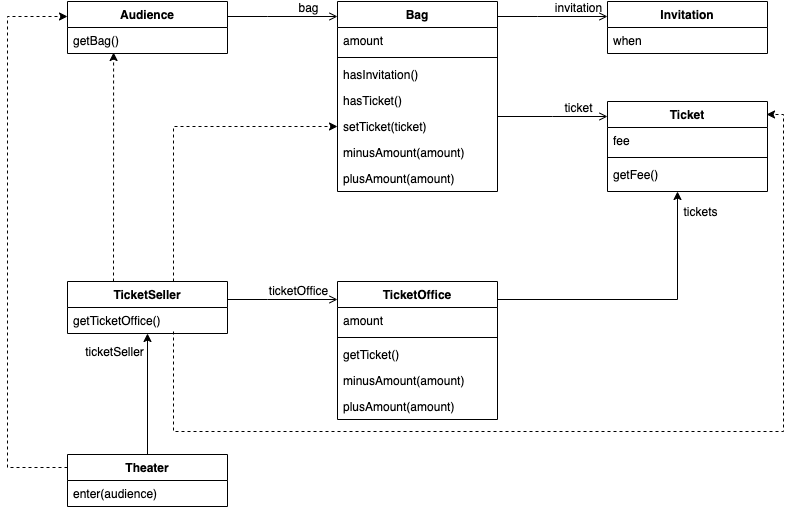
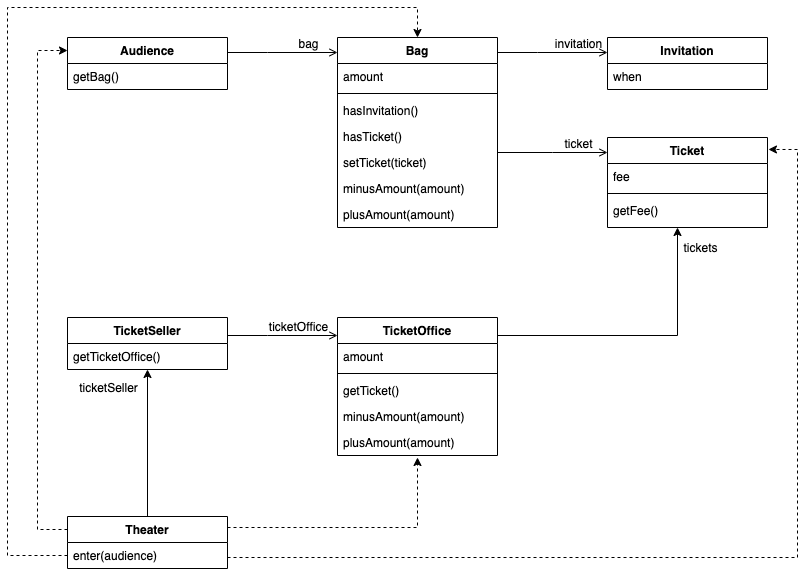
refactor: 클래스 다이어그램 이미지 수정
- 너무 많은 클래스에 의존하는 Theater - 클래스 다이어그램 이미지 수정

diff --git a/01. 객체, 설계/README.md b/01. 객체, 설계/README.md
@@ -31,7 +31,7 @@
 **변경에 취약한 코드**
 - 가장 심각한 문제는 변경에 취약하다는 점이다. Audience와 TicketSeller를 변경할 경우 Theater도 함께 변경해야 한다.
 - 너무 많은 클래스에 의존하는 Theater   
-  ![ClassDiagram(Theater)](https://user-images.githubusercontent.com/51159167/155100025-08849e37-b963-46c5-b579-93ac5f7f2fec.png)
+  ![ClassDiagram(Theater)](https://user-images.githubusercontent.com/51159167/155106629-ceeafb08-5404-4b44-87cf-5d954f25e2d5.png)
 
 
 ## 설계 개선하기
